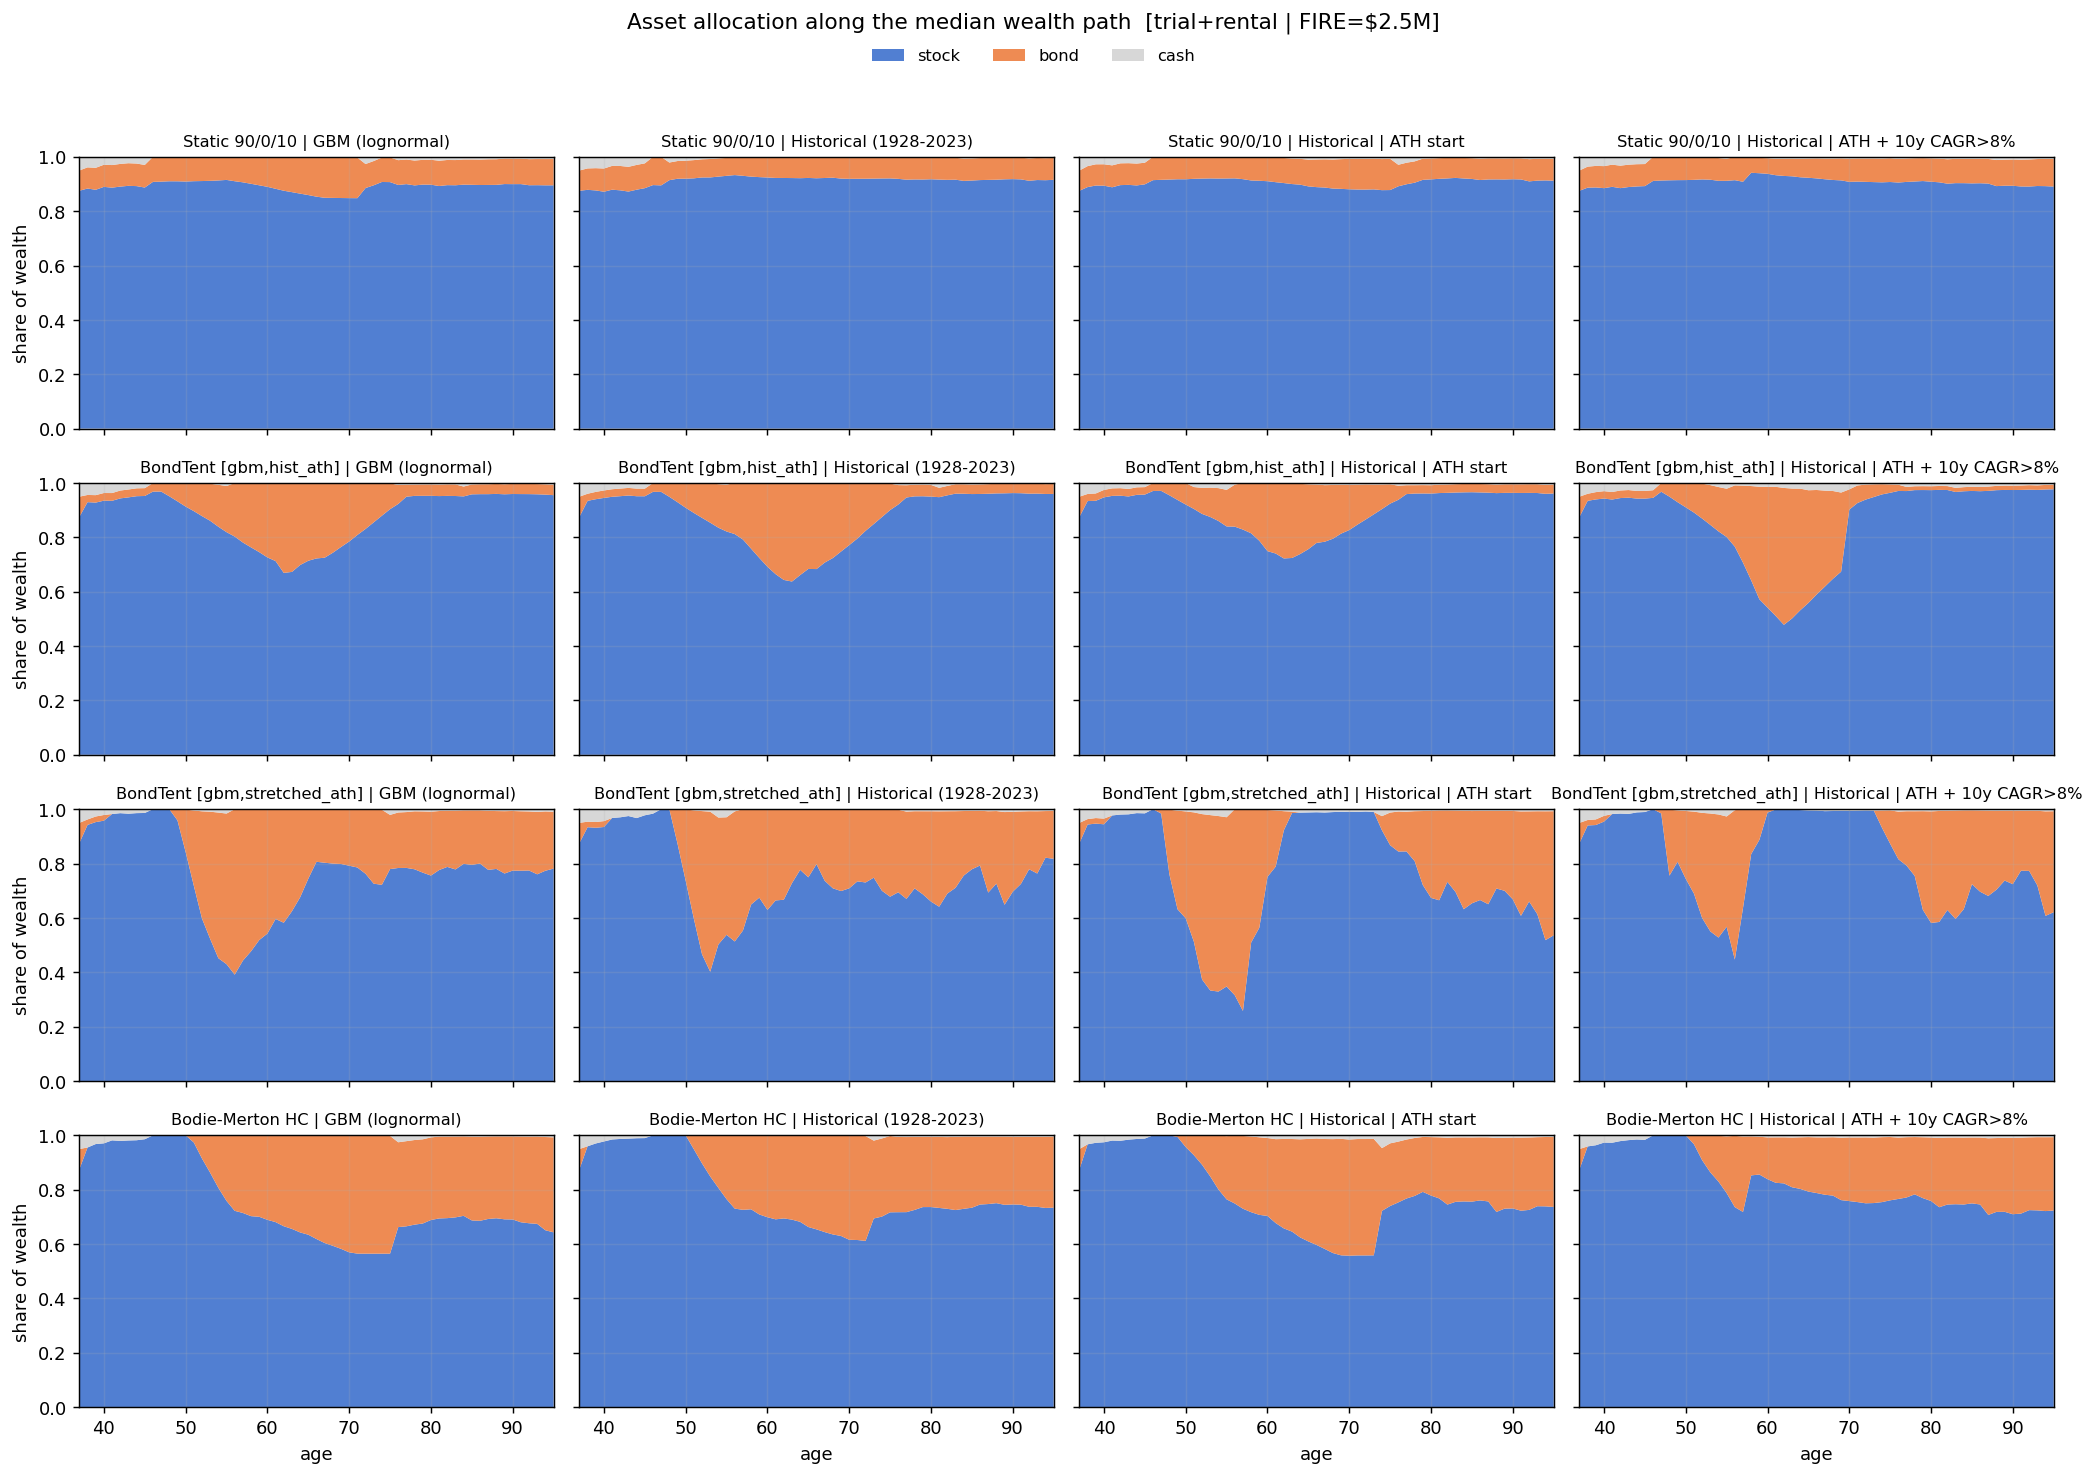
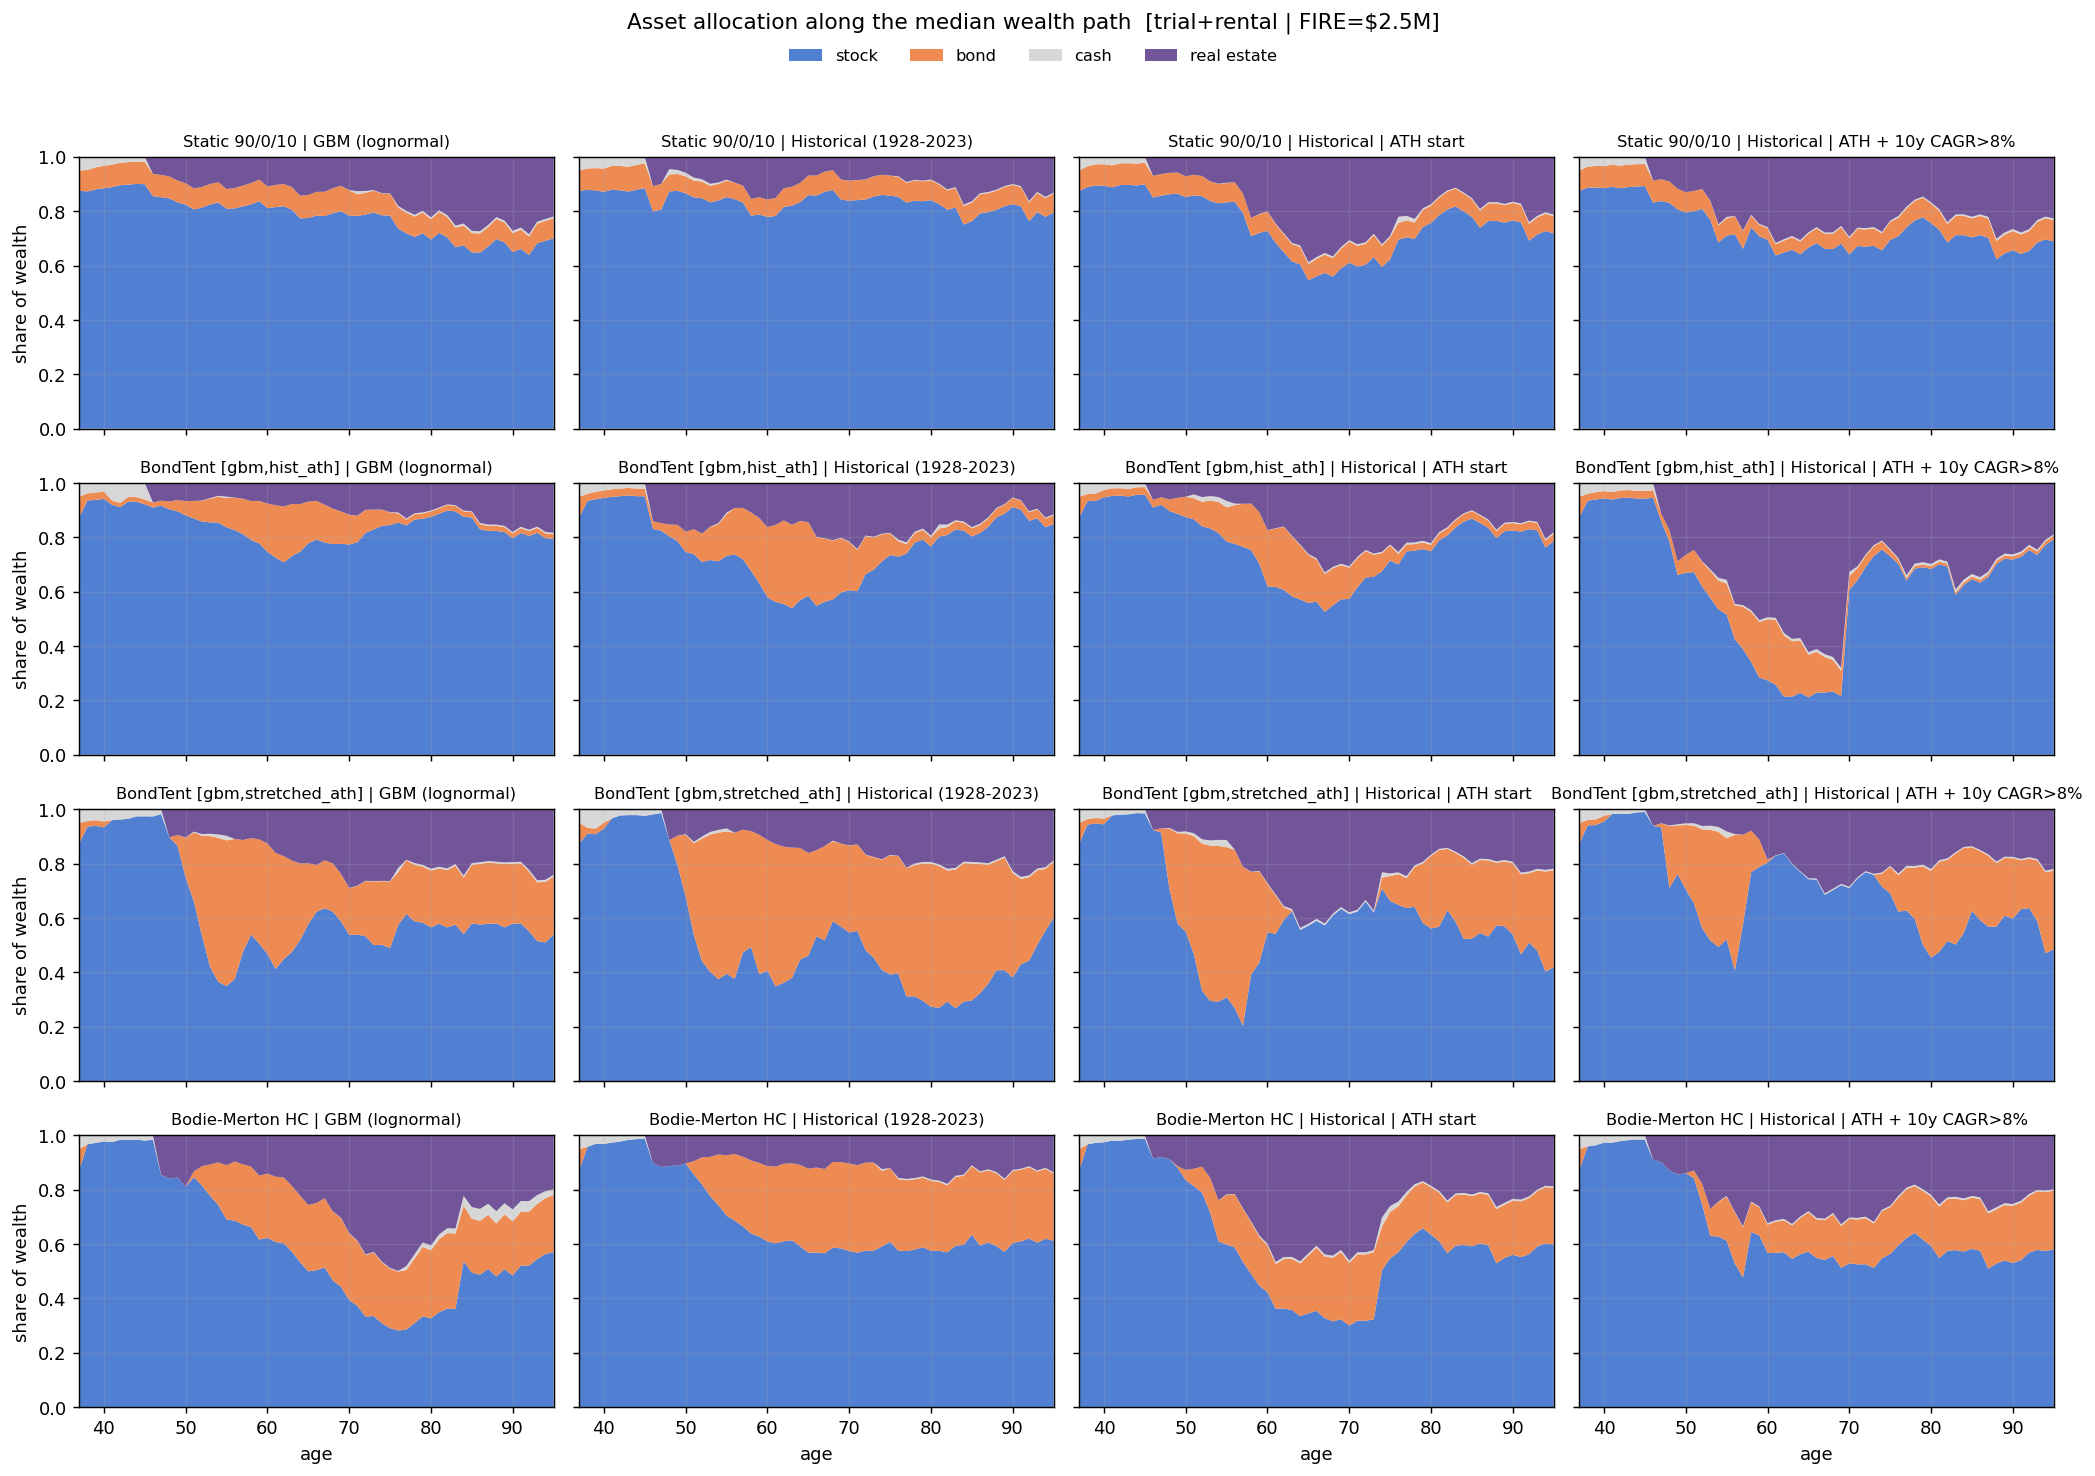
Treat property equity as wealth in visualizations + 4-asset allocation
- VState gains real_equity_by_year (P, H+1) recorded each year as
  property_value_real - (mortgage_balance + heloc_balance) / cum_infl,
  clamped at zero for non-owners. SimResult exposes it.
- Snapshot files now include `equity` array.
- All wealth-based plots (fan, fire/ruin, spaghetti, rich/broke/dead)
  use `augmented_wealth(d) = wealth + equity`. Snapshots without an
  equity field fall back to portfolio-only.
- allocation_grid stacks a 4th asset, "real estate" (purple), when the
  selected median path has nonzero equity. P(W55>=$2.5M) rises ~2-5
  percentage points across cells because equity contributes.

diff --git a/retirement-simulator/figures/plot_snapshots.py b/retirement-simulator/figures/plot_snapshots.py
@@ -69,6 +69,19 @@ def load(strategy: str, mode: str):
     return np.load(p, allow_pickle=False)
 
 
+def augmented_wealth(d) -> np.ndarray:
+    """Total real wealth = portfolio + property equity.
+
+    `equity` may be missing (older snapshots) or all-zero (no rental); in
+    either case this just returns the portfolio wealth."""
+    W = d["wealth"]
+    if "equity" in d.files:
+        eq = d["equity"]
+        if eq.shape == W.shape:
+            return W + eq
+    return W
+
+
 def fan_panel(ax, ages, wealth, title=None, ymax=None):
     qs = [0.05, 0.25, 0.5, 0.75, 0.95]
     Q = np.quantile(wealth, qs, axis=0) / 1e6
@@ -98,7 +111,7 @@ def fan_grid():
         for c, mode in enumerate(RETURN_MODES):
             d = load(strat, mode)
             cells[(strat, mode)] = d
-            ymax = max(ymax, np.quantile(d["wealth"], 0.95) / 1e6)
+            ymax = max(ymax, np.quantile(augmented_wealth(d), 0.95) / 1e6)
     ymax = float(np.ceil(ymax / 5.0) * 5.0)
     for r, strat in enumerate(STRATEGIES):
         for c, mode in enumerate(RETURN_MODES):
@@ -106,10 +119,10 @@ def fan_grid():
             ax = axes[r, c]
             ages = d["ages"]
             ruin = float(d["failure_rate"])
-            p_fire = (d["wealth"][:, 18] >= FIRE_TARGET).mean()
+            p_fire = (augmented_wealth(d)[:, 18] >= FIRE_TARGET).mean()
             title = (f"{STRAT_LABELS[strat]} | {MODE_LABELS[mode]}\n"
                      f"P(W55>=2.5M)={100*p_fire:.0f}%, P(ruin)={100*ruin:.1f}%")
-            fan_panel(ax, ages, d["wealth"], title=title, ymax=ymax)
+            fan_panel(ax, ages, augmented_wealth(d), title=title, ymax=ymax)
             if c == 0:
                 ax.set_ylabel("real wealth ($M)")
             if r == rows - 1:
@@ -142,7 +155,7 @@ def fire_ruin_grid():
         for strat in STRATEGIES:
             d = load(strat, mode)
             ages = d["ages"]
-            wealth = d["wealth"]
+            wealth = augmented_wealth(d)
             p_fire = (wealth >= FIRE_TARGET).mean(axis=0)
             # P(ruin) by age = P(min(W[0..t]) <= 0) — cumulative
             ruined = (wealth <= 0).cumsum(axis=1) > 0
@@ -172,15 +185,29 @@ def fire_ruin_grid():
     print(f"  wrote {out}")
 
 
-def allocation_panel(ax, ages, balances_path, title=None):
-    """Stack (stock, bond, cash) totals across all accounts."""
+def allocation_panel(ax, ages, balances_path, equity_path=None, title=None):
+    """Stack (stock, bond, cash, [real_estate]) totals across all accounts.
+
+    `equity_path` is a (H+1,) real-$ array of property equity for the
+    selected path; passed only when a rental property exists. Otherwise
+    the chart shows the original 3-asset breakdown."""
     # balances: (H+1, 3, 3) -> sum over accounts
     by_asset = balances_path.sum(axis=1)   # (H+1, 3)
-    total = by_asset.sum(axis=1).clip(min=1.0)
-    frac = by_asset / total[:, None]
-    ax.stackplot(ages, frac[:, 0], frac[:, 1], frac[:, 2],
-                 labels=["stock", "bond", "cash"],
-                 colors=["#4878d0", "#ee854a", "#d5d5d5"], alpha=0.95)
+    if equity_path is not None and (equity_path > 0).any():
+        eq_col = equity_path.reshape(-1, 1)
+        by_all = np.concatenate([by_asset, eq_col], axis=1)   # (H+1, 4)
+        total = by_all.sum(axis=1).clip(min=1.0)
+        frac = by_all / total[:, None]
+        ax.stackplot(ages, frac[:, 0], frac[:, 1], frac[:, 2], frac[:, 3],
+                     labels=["stock", "bond", "cash", "real estate"],
+                     colors=["#4878d0", "#ee854a", "#d5d5d5", "#6a4c93"],
+                     alpha=0.95)
+    else:
+        total = by_asset.sum(axis=1).clip(min=1.0)
+        frac = by_asset / total[:, None]
+        ax.stackplot(ages, frac[:, 0], frac[:, 1], frac[:, 2],
+                     labels=["stock", "bond", "cash"],
+                     colors=["#4878d0", "#ee854a", "#d5d5d5"], alpha=0.95)
     ax.set_ylim(0, 1)
     ax.set_xlim(ages[0], ages[-1])
     if title:
@@ -203,9 +230,10 @@ def allocation_grid():
             d = load(strat, mode)
             ages = d["ages"]
             balances = d["balances"]   # (P, H+1, 3, 3)
-            idx = median_path_idx(d["wealth"])
+            idx = median_path_idx(augmented_wealth(d))
             ax = axes[r, c]
-            allocation_panel(ax, ages, balances[idx],
+            eq_p = d["equity"][idx] if "equity" in d.files else None
+            allocation_panel(ax, ages, balances[idx], equity_path=eq_p,
                              title=f"{STRAT_LABELS[strat]} | "
                                    f"{MODE_LABELS[mode]}")
             if c == 0:
@@ -213,7 +241,7 @@ def allocation_grid():
             if r == rows - 1:
                 ax.set_xlabel("age")
     handles, labels = axes[0, 0].get_legend_handles_labels()
-    fig.legend(handles, labels, loc="upper center", ncol=3,
+    fig.legend(handles, labels, loc="upper center", ncol=4,
                bbox_to_anchor=(0.5, 0.995), fontsize=9, frameon=False)
     fig.suptitle(f"Asset allocation along the median wealth path  "
                  f"[{FIG_LABEL}]", fontsize=12, y=1.01)
@@ -241,7 +269,7 @@ def spaghetti_grid(n_show: int = 80, seed: int = 0):
             d = cells[(strat, mode)]
             ax = axes[r, c]
             ages = d["ages"]
-            W = d["wealth"] / 1e6
+            W = augmented_wealth(d) / 1e6
             P = W.shape[0]
             idx = rng.choice(P, size=min(n_show, P), replace=False)
             for i in idx:
@@ -283,7 +311,7 @@ def richbrokedead_grid():
             d = load(strat, mode)
             ax = axes[r, c]
             ages = d["ages"]
-            W = d["wealth"]
+            W = augmented_wealth(d)
             S = survival_curve(ages)               # P(alive | age)
             p_dead = 1.0 - S
             p_alive_rich = S * (W >= FIRE_TARGET).mean(axis=0)
@@ -333,7 +361,7 @@ def summary_table():
     for strat in STRATEGIES:
         for mode in RETURN_MODES:
             d = load(strat, mode)
-            W = d["wealth"]
+            W = augmented_wealth(d)
             p50 = (W[:, 13] >= FIRE_TARGET).mean()
             p55 = (W[:, 18] >= FIRE_TARGET).mean()
             ruin = float(d["failure_rate"])

diff --git a/retirement-simulator/retire/simulate.py b/retirement-simulator/retire/simulate.py
@@ -137,6 +137,7 @@ class SimResult:
     # Useful for downstream Excel/CSV export at quantile granularity.
     real_balance_by_year: np.ndarray | None = None    # (P, H+1, 3, 3)
     real_contrib_by_year: np.ndarray | None = None    # (P, H, 3, 3)
+    real_equity_by_year: np.ndarray | None = None     # (P, H+1) rental equity
 
     @property
     def n_paths(self) -> int:
@@ -475,6 +476,16 @@ def simulate(scn: Scenario,
         s.age_st_to_lt()
         s.real_wealth[:, y + 1] = s.total_value() / s.cumulative_inflation
         _record_balances(s, year_idx=y + 1)
+        # Record property equity in real $: net of mortgage AND HELOC. This
+        # is the "if I sold today and paid off both the mortgage and the
+        # HELOC" residual, which is the honest contribution to total wealth.
+        if scn.rental_property is not None and s.rental_owned.any():
+            cum_infl = s.cumulative_inflation
+            eq_real = (s.rental_value_real
+                       - (s.mortgage_balance_nominal
+                          + s.heloc_balance_nominal) / cum_infl)
+            eq_real = np.where(s.rental_owned, np.maximum(0.0, eq_real), 0.0)
+            s.real_equity_by_year[:, y + 1] = eq_real
         if age >= retirement_age:
             # Ruin: taxable+401k+roth all depleted AND no HELOC capacity left.
             # When rental is configured, the equity backstop softens ruin.
@@ -498,7 +509,8 @@ def simulate(scn: Scenario,
         ))
     return SimResult(paths=paths,
                      real_balance_by_year=s.real_balance_by_year.copy(),
-                     real_contrib_by_year=s.real_contrib_by_year.copy())
+                     real_contrib_by_year=s.real_contrib_by_year.copy(),
+                     real_equity_by_year=s.real_equity_by_year.copy())
 
 
 # ---------- Per-year accumulation step ----------

diff --git a/retirement-simulator/retire/vstate.py b/retirement-simulator/retire/vstate.py
@@ -76,6 +76,11 @@ class VState:
     # dividing by cumulative_inflation at end of each year).
     real_balance_by_year: np.ndarray   # (P, H + 1, 3, 3)
     real_contrib_by_year: np.ndarray   # (P, H, 3, 3) — fresh deposits only
+    # Property equity per (path, year) in real dollars. Equity = property
+    # value − mortgage balance − HELOC balance, all in nominal then deflated.
+    # Zero for paths that never own. Recorded after each year's step.
+    real_equity_by_year: np.ndarray = field(  # (P, H + 1)
+        default_factory=lambda: np.zeros((0, 0)))
 
     # Rental property (optional). All paths share the same scalar config in
     # the Scenario; per-path arrays track owned-state + value + debt. When
@@ -116,6 +121,7 @@ class VState:
             real_shortfall=np.zeros((n_paths, horizon)),
             real_balance_by_year=np.zeros((n_paths, horizon + 1, 3, 3)),
             real_contrib_by_year=np.zeros((n_paths, horizon, 3, 3)),
+            real_equity_by_year=np.zeros((n_paths, horizon + 1)),
             rental_owned=np.zeros(n_paths, dtype=bool),
             rental_value_real=np.zeros(n_paths),
             mortgage_balance_nominal=np.zeros(n_paths),

diff --git a/retirement-simulator/figures/run_snapshots.py b/retirement-simulator/figures/run_snapshots.py
@@ -104,9 +104,13 @@ def run_one(strategy_name: str, policy, scn, return_mode: str,
     failed = np.array([p.failed for p in result.paths])
     ages = np.array([scn.profile.age_at_year(y) for y in range(H1)])
     bal = result.real_balance_by_year  # (P, H+1, 3, 3)
+    eq = result.real_equity_by_year      # (P, H+1) — rental equity
+    if eq is None:
+        eq = np.zeros((P, H1), dtype=np.float32)
     out = os.path.join(snap_dir, f"{strategy_name}__{return_mode}.npz")
     np.savez_compressed(out,
                         wealth=wealth.astype(np.float32),
+                        equity=eq.astype(np.float32),
                         spending=spend.astype(np.float32),
                         balances=bal.astype(np.float32) if bal is not None
                                   else np.zeros((P, H1, 3, 3), dtype=np.float32),
